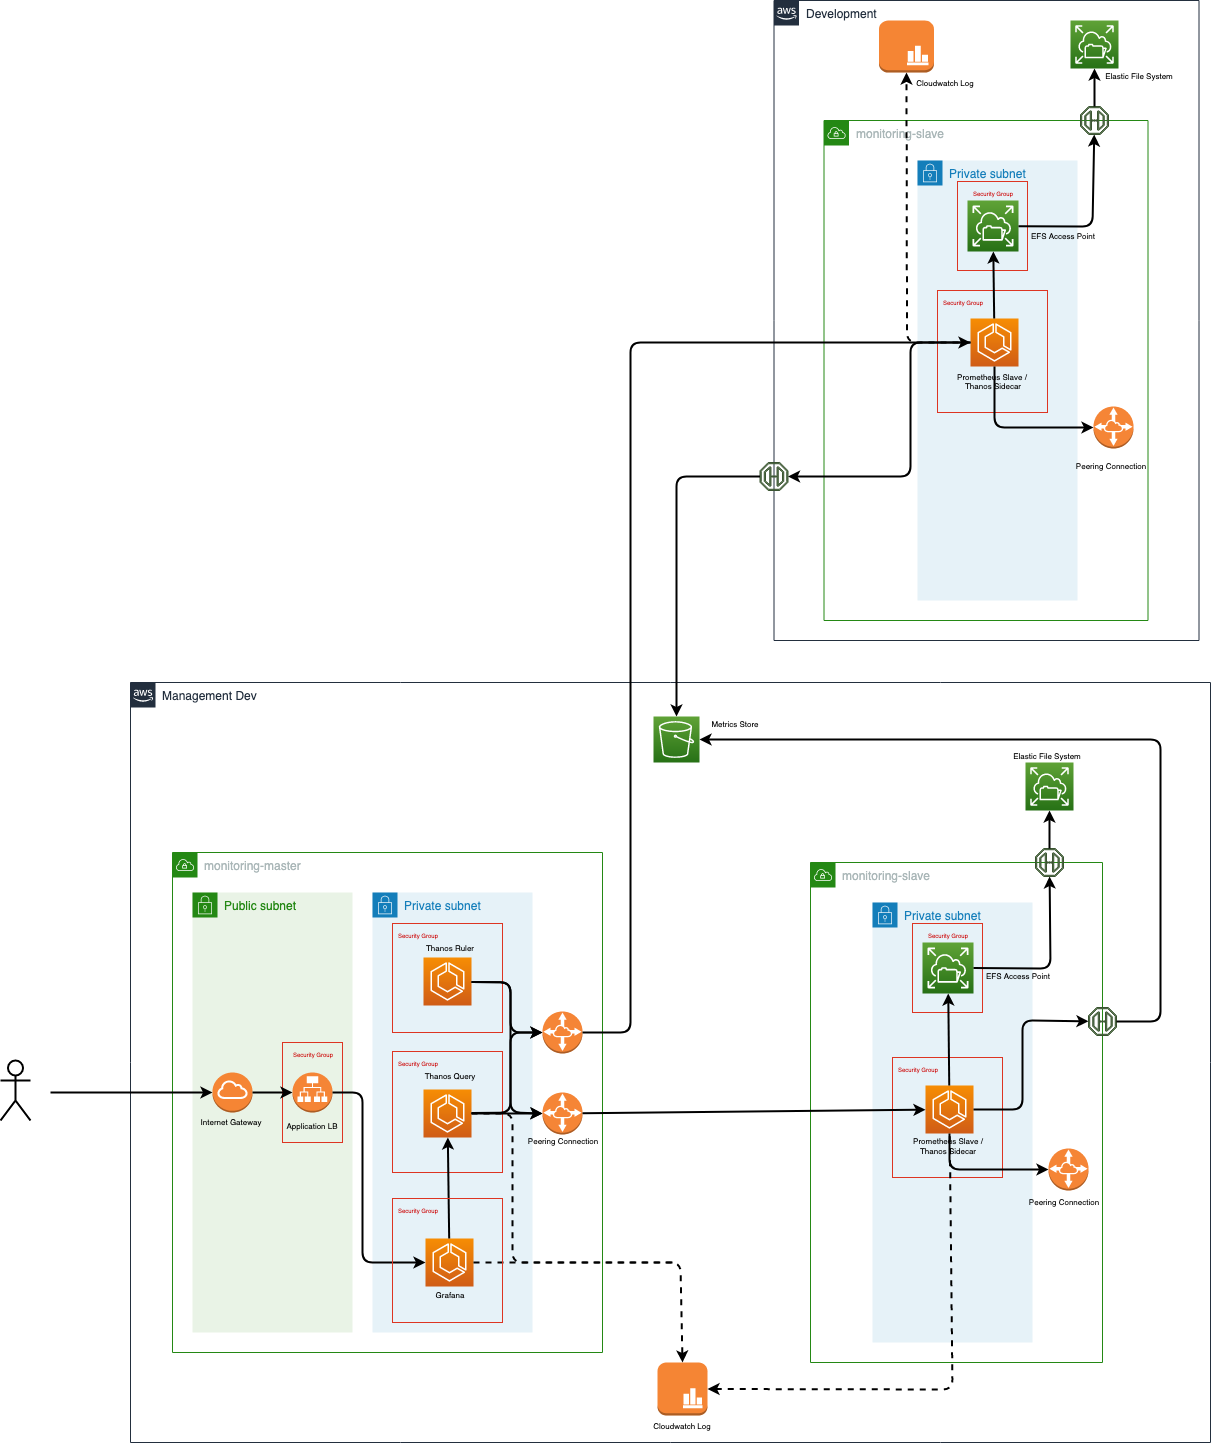
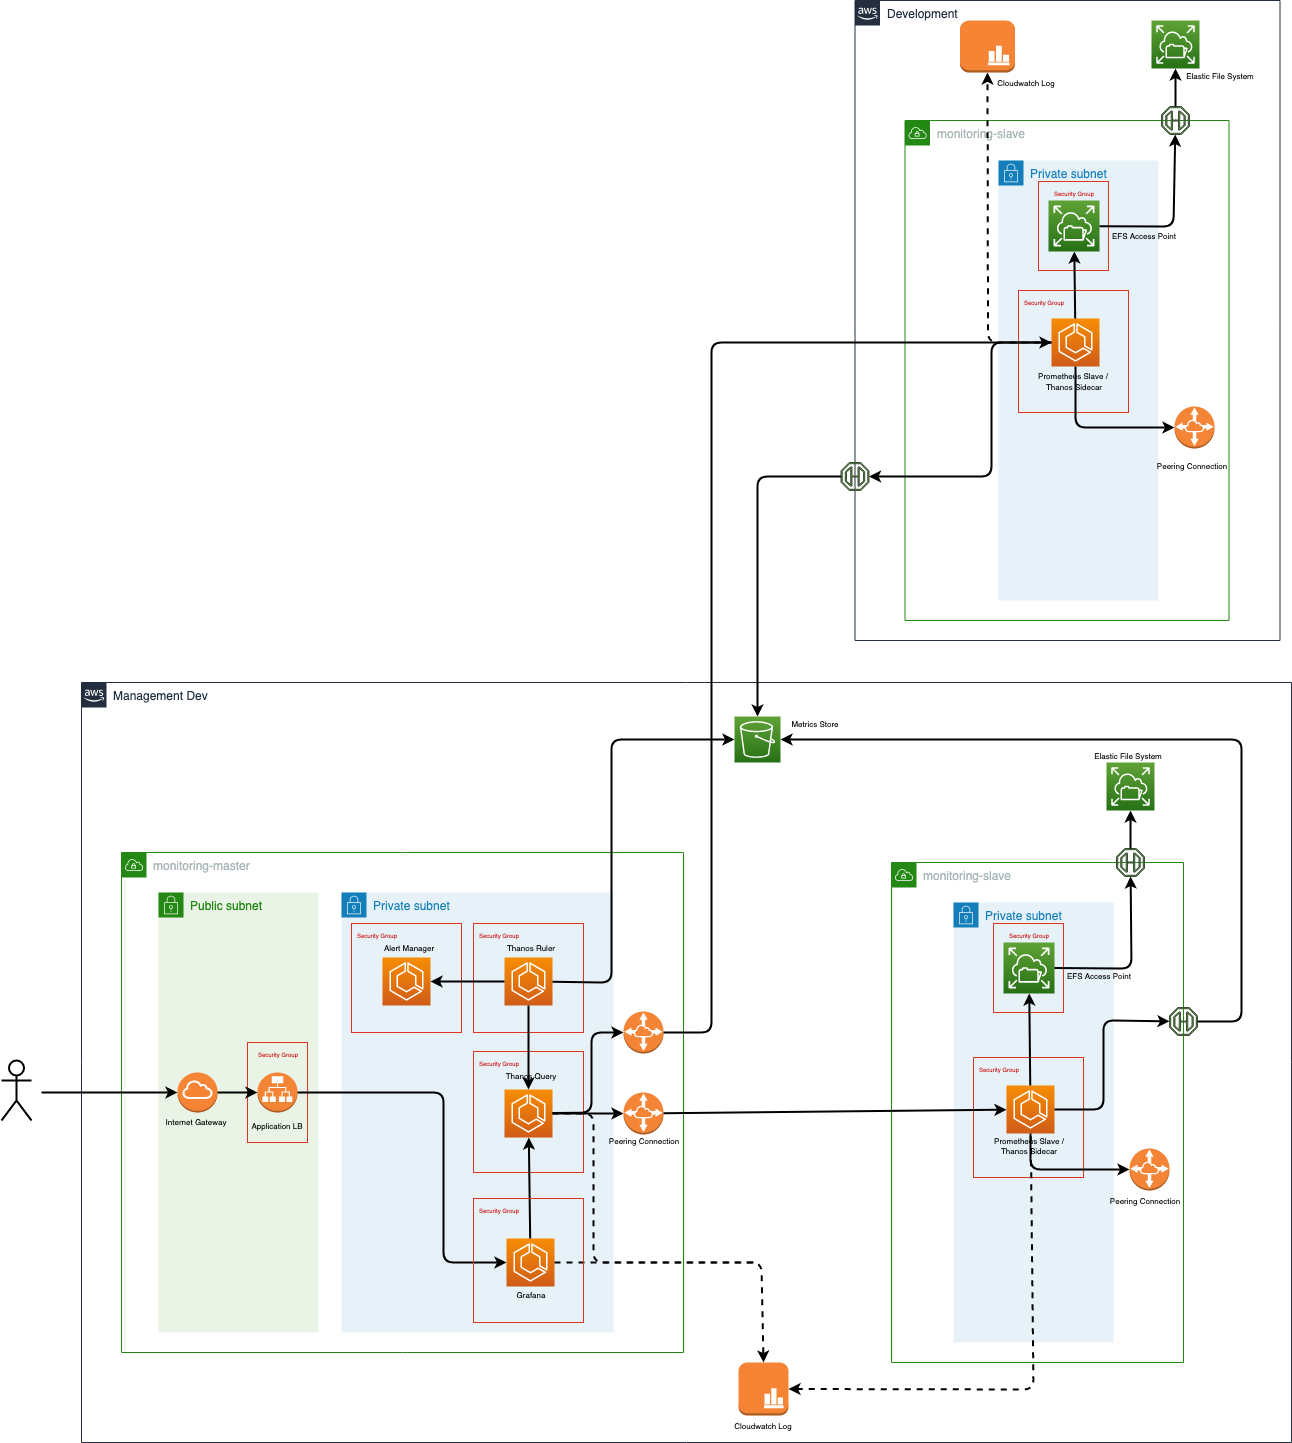
Adding reasons for choice of managing alerts

diff --git a/README.md b/README.md
@@ -35,7 +35,7 @@ Up until now, we have utilised CloudWatch Metrics as the only source of metric i
 ## Solution
 
 The toolset we shall use is Prometheus. It answers all of our questions in regards to metrics ingestion. It will be deployed using ECS, as this suits our needs for size and scalability.
-As show in the images, the tool should be split over Development (DEV,QA,INT,MGMT-DEV) and Production (MGMT, PREPROD, PROD). This allows us to split out the production data, following similar patterns seen elsewhere on the project.  As far as external parties access is required, SRE need access to scrape metrics from `:9090/metrics` on our Production instance.  
+As shown in the images, the tool should be split over Development (DEV,QA,INT,MGMT-DEV) and Production (MGMT, PREPROD, PROD). This allows us to split out the production data, following similar patterns seen elsewhere on the project.  As far as external parties access is required, SRE need access to scrape metrics from `:9090/metrics` on our Production instance.  
 
 ![High level design](docs/monitoring_high_level.png)
 
@@ -43,7 +43,7 @@ Metrics aggregation shall be done by basing Prometheus in its own VPC per enviro
 
 ![Low level slice](docs/monitoring_slice.png)
 
-## Thanos
+### Thanos
 
 To answer one of our most important requirements, in long-term metics storage we are going to integrate [Thanos](https://github.com/thanos-io/thanos).  
 
@@ -71,6 +71,16 @@ Features
 * Easy integration points for custom metric providers
 
 We are currently working on updating the current infrastructure Thanos, and will reflect the architecture documents in due time.
+
+### Alerts
+
+Alerts will be handled using Prometheus' Alertmanager which will be located in the primary VPC. With this pattern alerts can either be pushed from a Prometheus in the target VPC or from the Thanos Ruler which would be located in the primary VPC. This pattern is shown in the Thanos architecture [here](#Thanos). Although there is the capability for two methods of pushing alerts we are going to take the latter option for the following reasons:
+
+* The logical flow of routing does not need to be changed. So all queries will still run through the thanos query node, then down into the target VPC. As opposed to alerts being pushed up from the target environment into the primary VPC.
+* The Thanos ruler can be used to optimise queries to help improve the speed of alert resolution, if slow complex queries are required.
+* Configuration for alerts can be centralised, simplifying the updating and deployment of those rules.
+
+The drawback is that as we are routing the queries through the query node, there is an increased chance of failed queries. However there are mitigation steps that can be taken to handle this situation should it occur outlined [here](https://thanos.io/components/rule.md/#must-have-essential-ruler-alerts)
 
 ## Current Architecture
 
